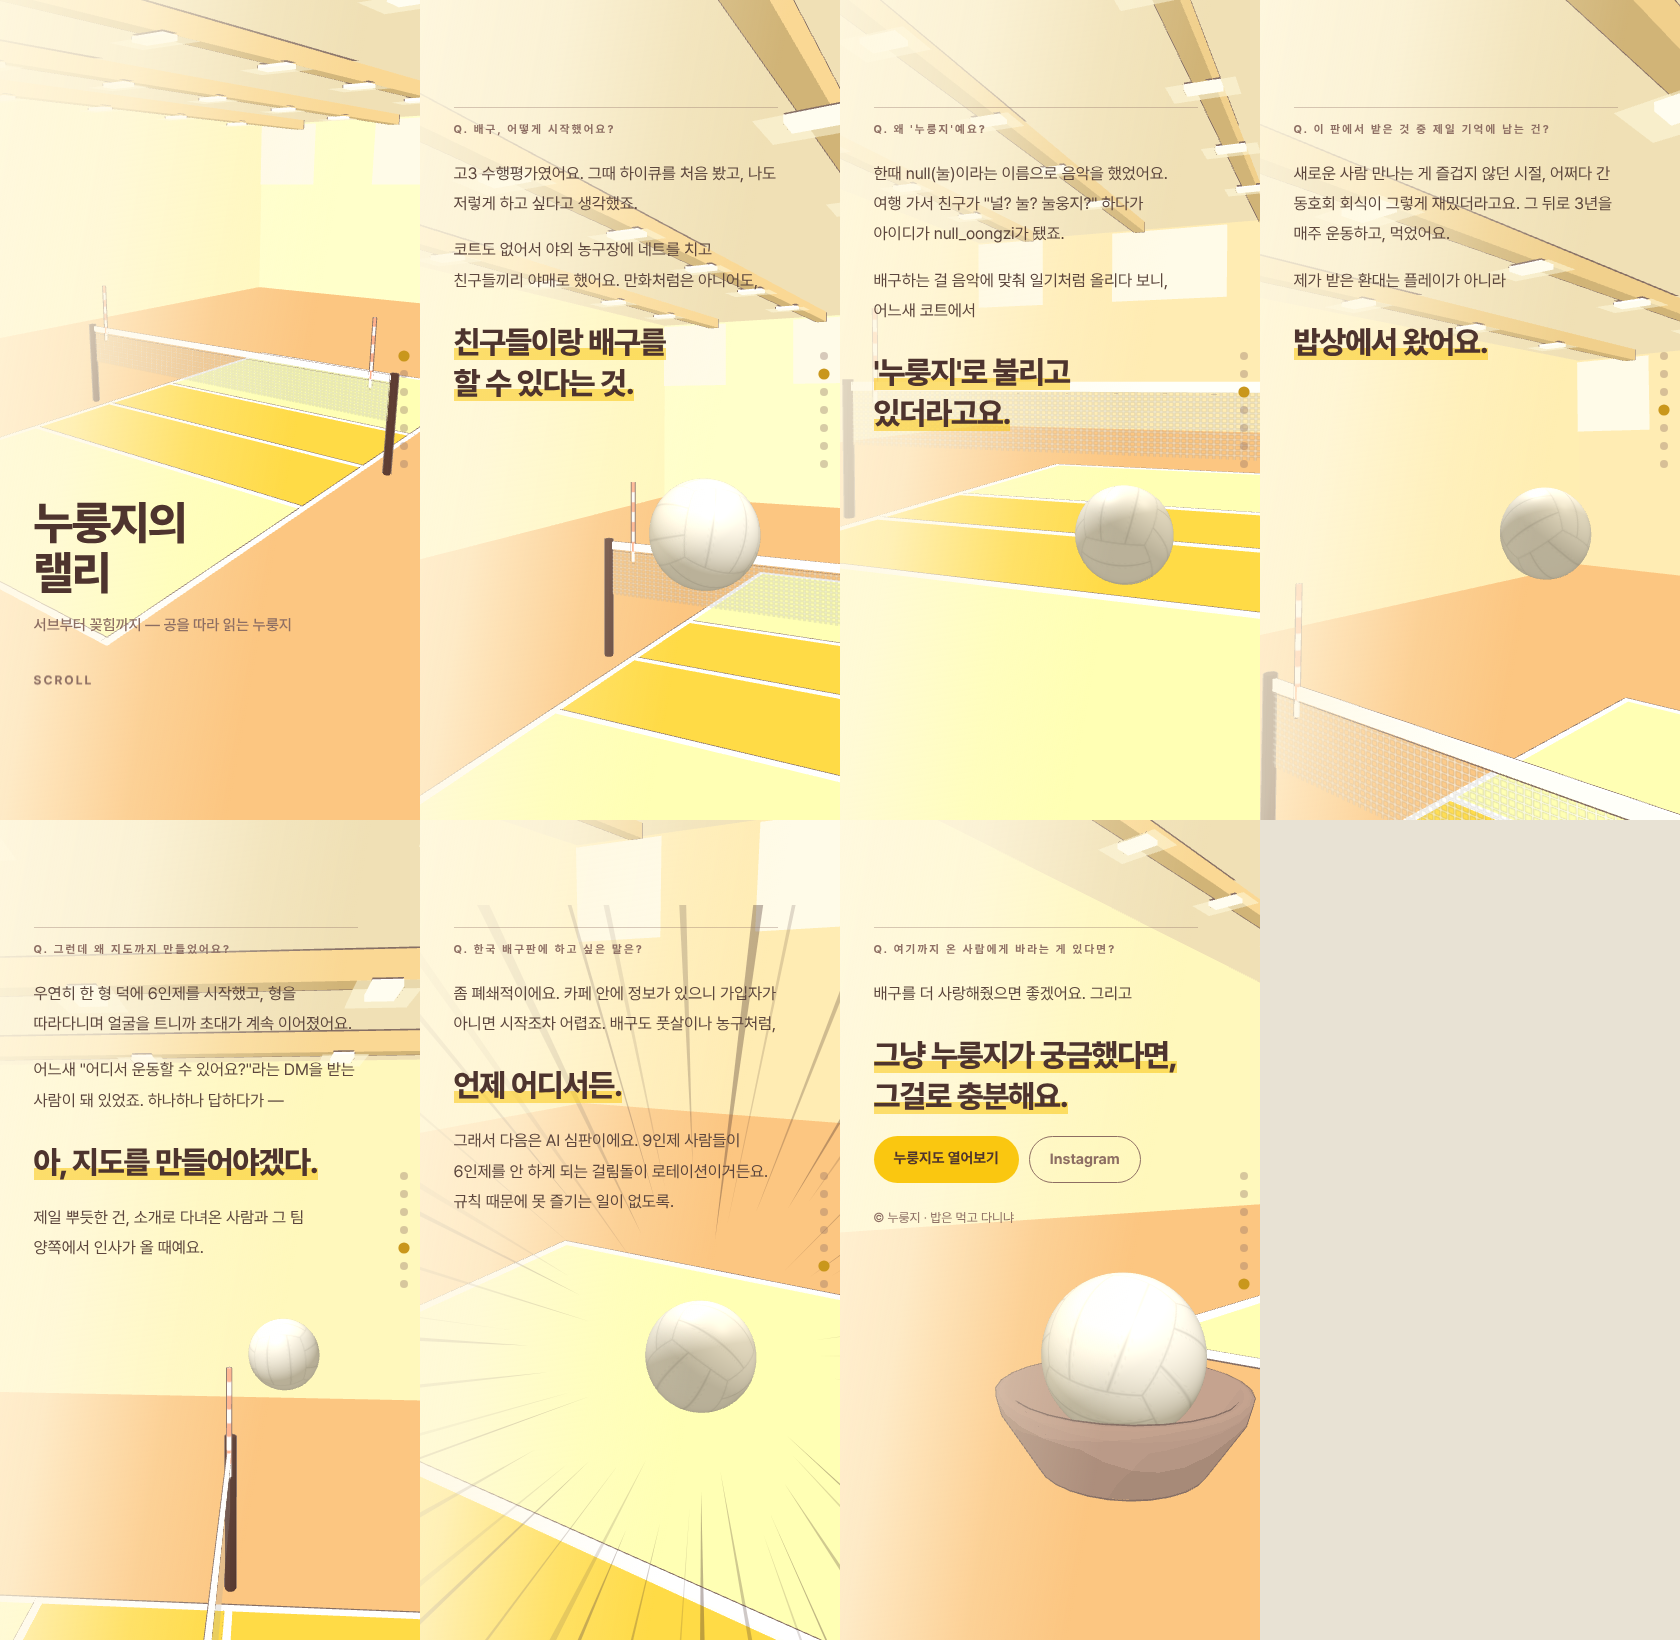
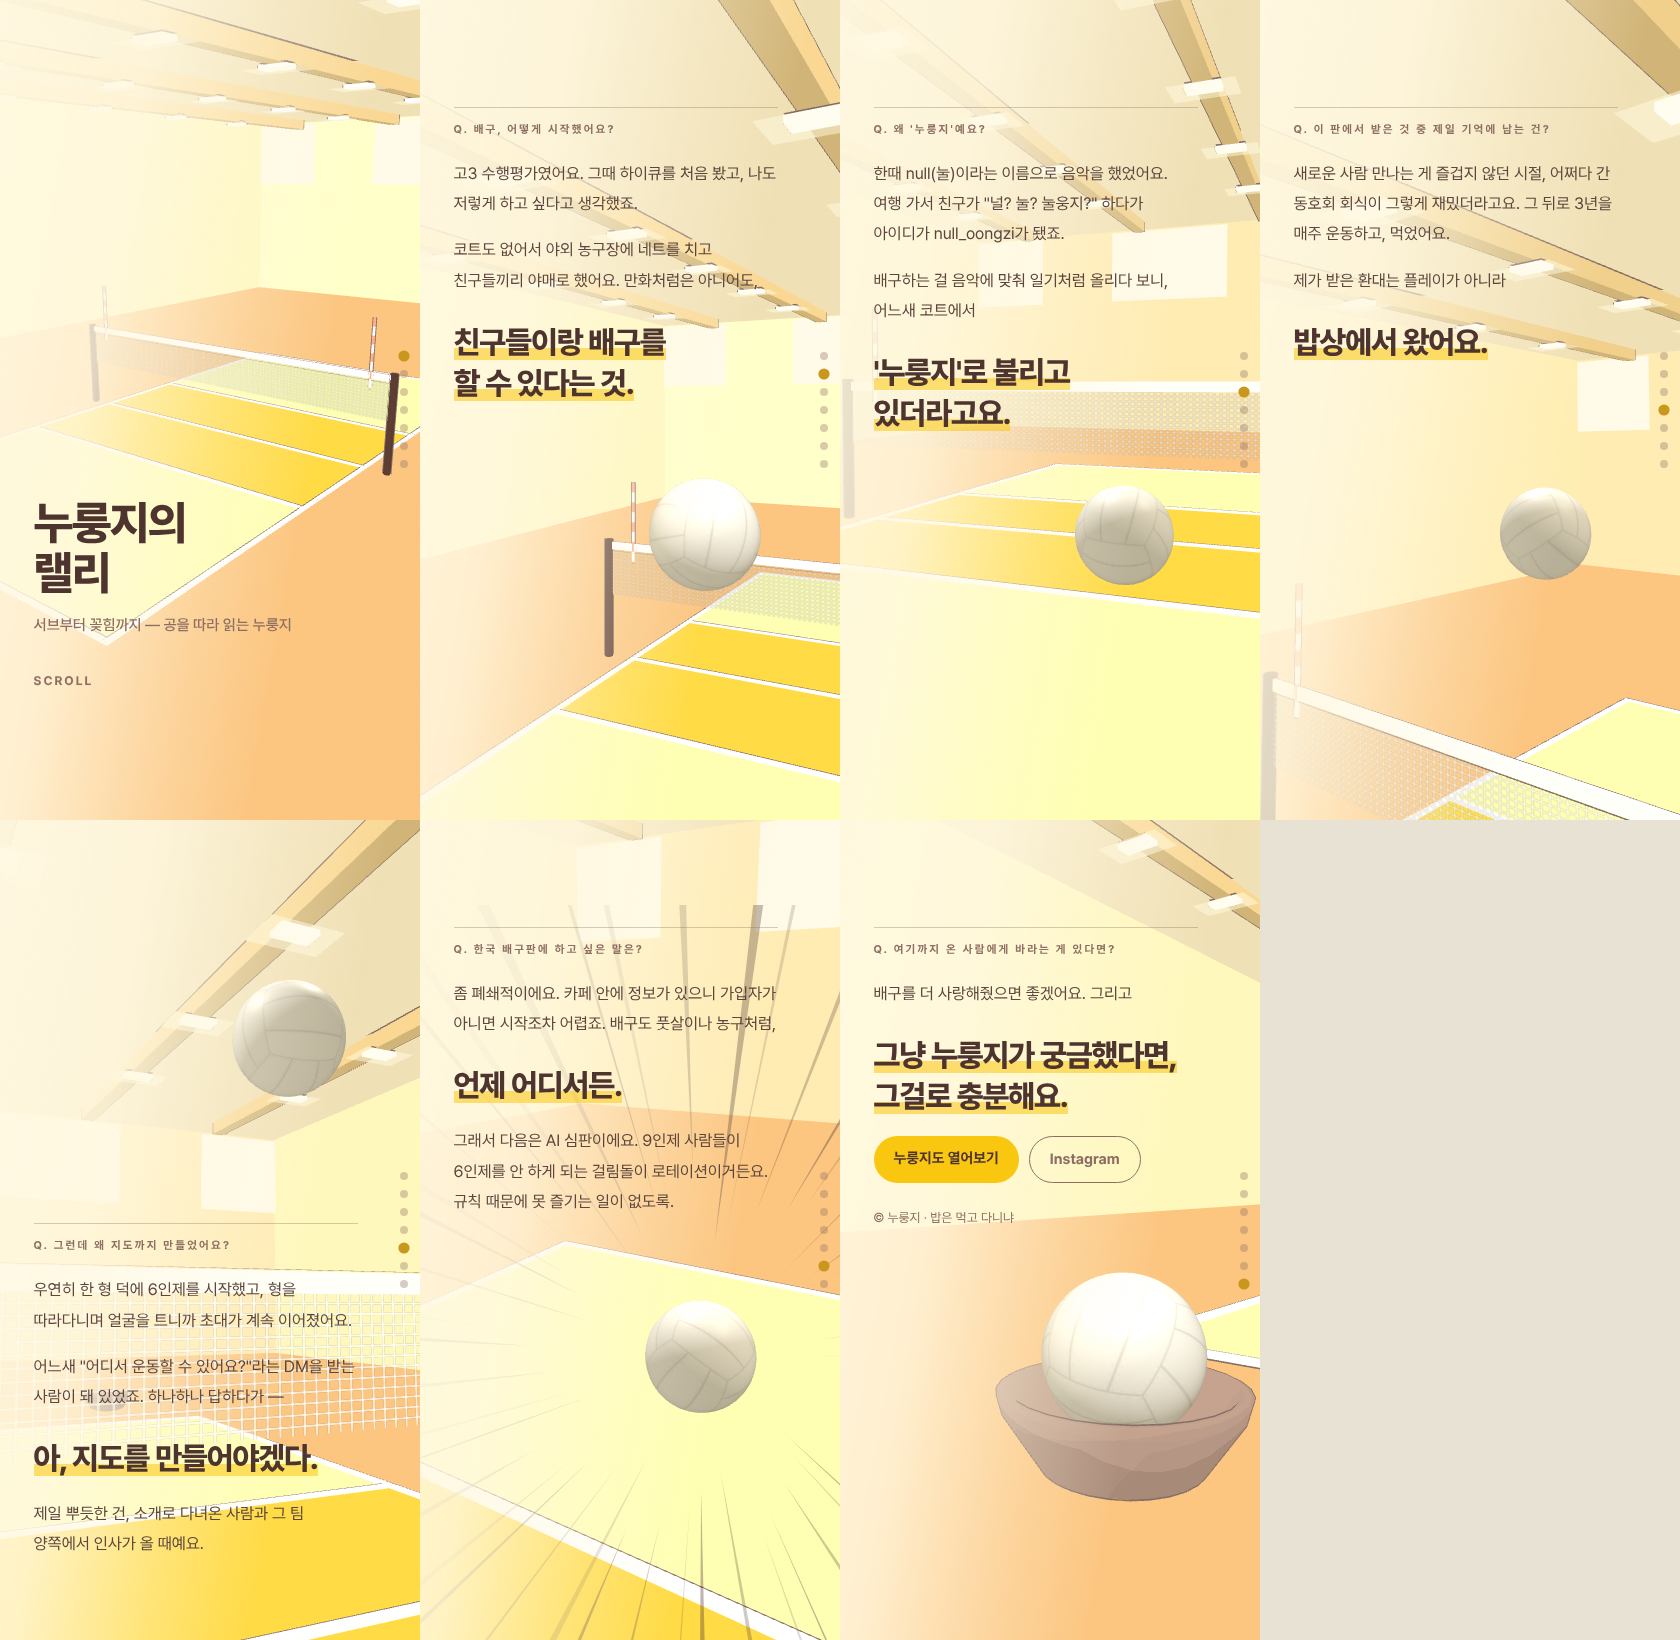
fix: 토스 컷을 세터 시점으로 재구성
측면 관찰 뷰가 아니라 세터가 실제로 보는 시야로:
- 카메라를 세터 눈높이(y≈2.2)·뒤쪽에 두고 올려다봄 — 공은 머리 위,
  네트와 상대 코트가 아래로 함께 잡힘
- 세트 정점을 4.9m→3.9m(스파이커 타점 높이)로 낮춰 공과 코트가
  한 프레임에 들어오게, 스파이크 시작점도 연동 수정
- 공이 상단에 오는 컷은 텍스트를 하단 배치(.typo.at-bottom),
  공 화면위치 비트별 오버라이드(BALL_NDC_BY_BEAT) 도입
- 스크림 좌측 농도 소폭 상향(네트 그물 위 가독성)

Claude-Session: https://claude.ai/code/session_01CGnnVWVPrB2vbffiNQpkTn

diff --git a/rally3d.html b/rally3d.html
@@ -48,7 +48,7 @@
   #scrim {
     position: fixed; inset: 0; z-index: 3; pointer-events: none; opacity: 0;
     transition: opacity .45s ease;
-    background: linear-gradient(100deg, rgba(255,248,225,.92) 0%, rgba(255,248,225,.72) 26%, rgba(255,248,225,.22) 48%, rgba(255,248,225,0) 66%);
+    background: linear-gradient(100deg, rgba(255,248,225,.95) 0%, rgba(255,248,225,.82) 28%, rgba(255,248,225,.3) 52%, rgba(255,248,225,0) 70%);
   }
   #scrim.on { opacity: 1; }
   .typo {
@@ -56,6 +56,8 @@
     word-break: keep-all; left: 8vw; top: 13vh; width: min(78vw, 34ch);
   }
   .typo.show { display: block; }
+  /* 공이 화면 위쪽에 오는 컷(세터 시점)은 텍스트를 하단으로 */
+  .typo.at-bottom { top: auto; bottom: 8vh; }
   .rv { opacity: 0; transform: translateY(16px); transition: opacity .55s ease, transform .55s ease; }
   .rv.on { opacity: 1; transform: none; }
 
@@ -162,7 +164,7 @@
   <span class="hit-wrap rv"><span class="hit">밥상에서 왔어요.</span></span>
 </div>
 
-<div class="typo" id="typo-settoss">
+<div class="typo at-bottom" id="typo-settoss">
   <span class="lbl rv">Q. 그런데 왜 지도까지 만들었어요?</span>
   <p class="body-line rv">우연히 한 형 덕에 6인제를 시작했고, 형을 따라다니며 얼굴을 트니까 초대가 계속 이어졌어요.</p>
   <p class="body-line rv">어느새 "어디서 운동할 수 있어요?"라는 DM을 받는 사람이 돼 있었죠. 하나하나 답하다가 —</p>
@@ -441,8 +443,8 @@ if (renderer && !reduced) {
     tossup: { A: new V3(1.1, 1.2, 9.8),   C: new V3(1.05, 3.2, 9.6),  B: new V3(0.9, 4.6, 9.3) },
     flight: { A: new V3(0.9, 4.6, 9.3),   C: new V3(0, 7.4, 1.5),     B: new V3(-1.8, 1.4, -5.8) },
     receive:{ A: new V3(-1.8, 1.4, -5.8), C: new V3(-1.2, 6.0, -3.8), B: new V3(-0.2, 4.9, -1.2) },
-    settoss:{ A: new V3(-0.2, 4.9, -1.2), C: new V3(-0.6, 1.5, -0.9), B: new V3(-0.8, 4.9, -0.7) },
-    spike:  { A: new V3(-0.8, 4.9, -0.7), C: new V3(-0.95, 4.3, 0.9), B: new V3(-1.0, 1.9, 3.0) }
+    settoss:{ A: new V3(-0.2, 4.9, -1.2), C: new V3(-0.6, 1.4, -0.9), B: new V3(-0.9, 3.9, -0.7) },
+    spike:  { A: new V3(-0.9, 3.9, -0.7), C: new V3(-0.95, 3.6, 0.9), B: new V3(-1.0, 1.9, 3.0) }
   };
   // 볼캠 파라미터: [뒤따르는 거리, 높이 오프셋, 측면 오프셋]
   var TRAIL = {
@@ -454,12 +456,14 @@ if (renderer && !reduced) {
   // 정착 컷: 각 비트가 멈춰 서는 순간의 설계된 구도 (공 온전 + 상단 텍스트 여백)
   // 정착 컷: 공을 화면 우하단 정위치(NDC)에 놓도록 카메라를 푼다 (좌측 텍스트 컬럼 확보)
   var BALL_NDC = { x: 0.36, y: -0.3 };
+  // 비트별 오버라이드: 세터 시점처럼 공이 머리 위에 있는 컷은 공을 상단에 두고 코트를 아래로 담는다
+  var BALL_NDC_BY_BEAT = { settoss: { x: 0.40, y: 0.46 } };
   // 비트별 구면 배치: [거리, yaw(도, 0=공의 +z쪽에서 -z를 봄), pitch(도, 올려다본 높이)]
   var SETTLE_ORBIT = {
     tossup:  [4.6, 22, 10],
     flight:  [5.2, 196, 12],
     receive: [5.6, 214, 6],
-    settoss: [7.2, 88, 13],    // +x 사이드라인에서 네트 라인을 따라 봄 → 공 뒤로 안테나·지주
+    settoss: [4.6, 149, -21],  // 세터 시점: 세터 눈높이·뒤에서 — 공은 머리 위, 네트와 상대 코트가 아래로
     spike:   [4.6, 205, 27],   // 공 뒤(네트 쪽)에서 코트를 우하단으로 내려봄
     land:    [3.1, 34, 14]
   };
@@ -476,9 +480,10 @@ if (renderer && !reduced) {
     var tanV = Math.tan(camera.fov * Math.PI / 360);
     var tanH = tanV * camera.aspect;
     var dist = outP.distanceTo(ball);
+    var ndc = BALL_NDC_BY_BEAT[beat] || BALL_NDC;
     outT.copy(ball)
-      .addScaledVector(_rgt, -dist * BALL_NDC.x * tanH)
-      .addScaledVector(_up2, -dist * BALL_NDC.y * tanV);
+      .addScaledVector(_rgt, -dist * ndc.x * tanH)
+      .addScaledVector(_up2, -dist * ndc.y * tanV);
   }
   var _sp = new V3(), _st = new V3();
 

diff --git a/docs/website_design.md b/docs/website_design.md
@@ -78,7 +78,11 @@
 - **가독성 확보 = 스크림**(헤일로 금지): `#scrim`에 `linear-gradient(100deg, cream .92 → .72(26%) → .22(48%) → 0(66%))`. 텍스트 뜰 때 함께 페이드 인.
 - `word-break: keep-all` 필수. 강조 행은 `<br>`로 줄바꿈을 의도적으로 제어한다.
 - **등장**: 요소 단위 스태거 — `.rv` 클래스에 `0.12s + 인덱스×0.13s` 지연, 16px 상승 + 페이드. 정착한 비트에서만.
-- **정착 구도(비트별 의미)**: 각 컷은 그 동작이 실제로 보이는 앵글이어야 한다 — 토스는 **+x 사이드라인에서 네트 라인을 따라 보는 측면 뷰**(공 뒤로 지주·안테나가 놓임), 스파이크는 **공 뒤(네트 쪽) 위에서 코트를 우하단으로 내려보는 뷰**. 구면 배치는 `SETTLE_ORBIT`(거리·yaw·pitch)로 지정.
+- **정착 구도(비트별 의미)**: 각 컷은 **그 동작을 하는 사람이 실제로 보는 시야**여야 한다. 단순한 측면 관찰 뷰는 금지.
+  - **토스 = 세터 시점**: 세터 눈높이(카메라 y≈2.2)에서 뒤쪽에 서서 — **올린 공은 머리 위(상단), 네트와 상대 코트가 그 아래로** 함께 잡힌다. 세트 정점을 3.9m로 낮춰(스파이커 타점 높이) 공과 코트가 한 프레임에 들어오게 했다.
+  - **스파이크 = 때리기 직전 시점**: 공 뒤(네트 쪽) 위에서 **코트를 우하단으로 내려보는** 뷰.
+  - 구면 배치는 `SETTLE_ORBIT`(거리·yaw·pitch)로 지정.
+- **공이 화면 위쪽에 오는 컷은 텍스트를 하단으로**(`.typo.at-bottom`) — 공-텍스트 충돌 방지. 공 화면 위치도 비트별 오버라이드 가능(`BALL_NDC_BY_BEAT`).
 - **공 위치는 수식으로 보장**: 정착 시 카메라를 역산해 공을 항상 **NDC (0.36, −0.30)**(우하단 1/3)에 놓는다 — 비트별 구면 배치(거리·yaw·pitch)만 지정하면 화면 좌표는 솔버가 맞춘다(`solveSettle`). 텍스트 컬럼과 절대 겹치지 않는다.
 - 강조 행 지정 (비트별 고정):
   - 서브/토스업: "친구들이랑 배구를 할 수 있다는 것."
